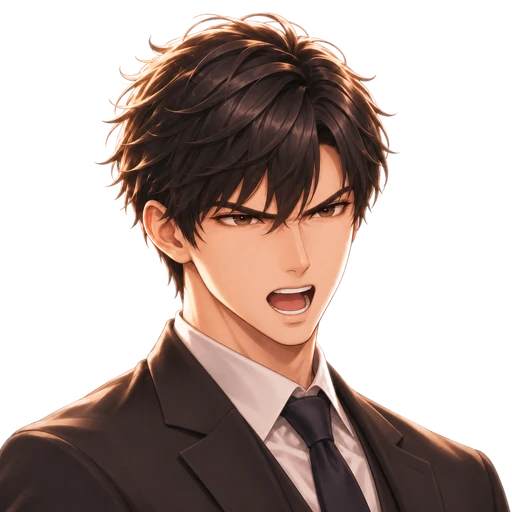
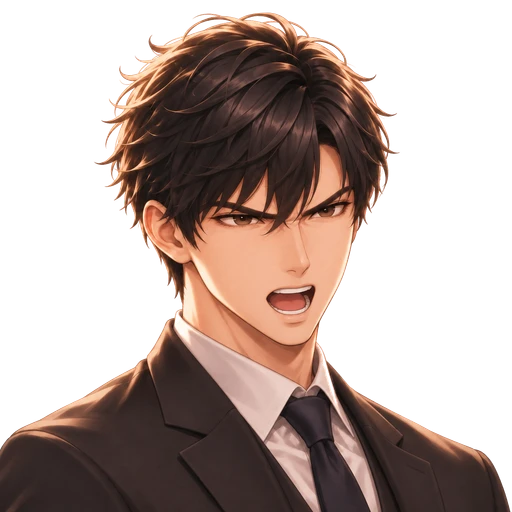
남주 그림 오른쪽 볼이 깎인 누끼 다시 고침

diff --git a/sw.js b/sw.js
@@ -2,7 +2,7 @@
 // 앱(화면 파일)은 배포할 때마다 새 판으로 바꾸고, 그림(assets/)은 버전과 상관없는 따로 된 저장소에 둔다.
 // 그래서 배포해도 이미 받은 그림은 다시 받지 않는다. 그림은 저장해 둔 것을 바로 보여 주고, 뒤에서 바뀌었는지만 확인한다.
 // 같은 이름의 그림을 다시 그려 바꿨을 때도 다음 실행부터 새 그림이 보인다(뒤에서 확인한 결과).
-const CACHE = "truth-v1796500000000";
+const CACHE = "truth-v1796510000000";
 const IMG = "truth-img-3";
 // 음악(bgm/)도 그림처럼 버전과 상관없는 저장소에 둔다. 처음 들을 때는 인터넷으로 바로 틀고, 뒤에서 곡 전체를 받아 저장한다.
 // 저장된 뒤에는 저장한 곡에서 필요한 부분(Range)을 잘라 준다. 그래서 데이터가 끊겨도 음악이 멈추지 않는다
